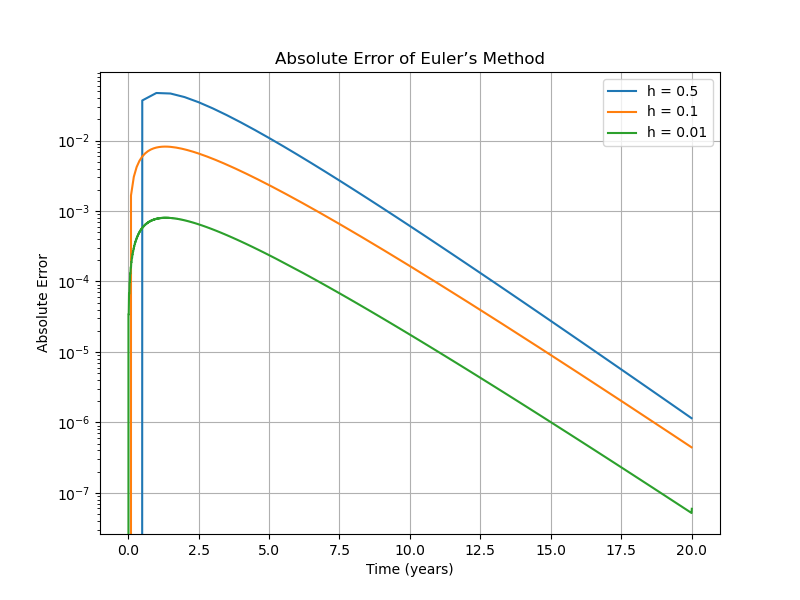
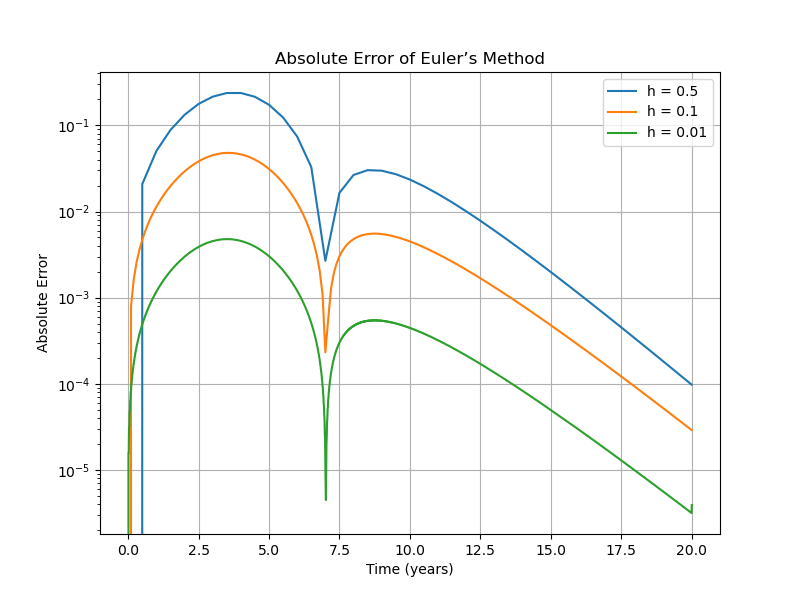
updated task a and c

diff --git a/Code/task_set_a.py b/Code/task_set_a.py
@@ -1,6 +1,7 @@
 import numpy as np
 import matplotlib.pyplot as plt
-from utils import euler_method, exact_solution, plot_solutions
+from utils import euler_method, exact_solution, plot_solutions, harvesting_function, dirfield
+from scipy.optimize import fsolve
 
 def task_1_units():
     """
@@ -36,7 +37,7 @@ def task_3_euler_method_and_plots():
     # Parameters for mountain lion population
     r = 0.65
     L = 5.4
-    x0 = 6  # Initial population (in dozens of mountain lions)
+    x0 = .5  # Initial population (in dozens of mountain lions)
     t_end = 20
     h_values = [0.5, 0.1, 0.01]
 
@@ -86,8 +87,8 @@ def task_5_behavior_of_harvesting_function():
     """
     Task A.5: Explore the behavior of the harvesting function H(x) and plot the curves.
     """
-    def harvesting_function(x, p, q):
-        return (p * x**2) / (q + x**2)
+    #def harvesting_function(x, p, q):
+        #return (p * x**2) / (q + x**2)
 
     x_values = np.linspace(0, 10, 500)
     parameters = [(1, 1), (1, 3), (1, 5), (3, 1), (3, 3), (3, 5), (5, 1), (5, 3), (5, 5)]
@@ -114,7 +115,50 @@ def task_6_equilibrium_solutions_and_euler():
     # - Find equilibrium solutions using numerical solvers (e.g., scipy.optimize.fsolve)
     # - Compute Euler’s method for initial deer populations of 84, 24, 18, and 6
     # - Plot results along with the direction field and equilibrium points
-    pass  # Placeholder
+    rd = 0.65
+    Ld = 8.1
+    p = 1.2
+    q = 1
+    h = 0.1
+    pop = [7, 2, 2.5, 0.5]
+    t_grid = np.arange(0, 30, h)
+    x_sol = np.zeros_like(t_grid)
+    x_grid = np.linspace(0, 8, 500)
+    H = harvesting_function(x_grid, p, q)
+    def fxt(x):
+        y = rd*x*(1-(x/Ld))-harvesting_function(x, p, q)
+        return y
+    guess = [0, 0.7, 5]
+    roots = np.array([])
+    for i in range(len(guess)):
+        root = fsolve(fxt, guess[i])
+        roots = np.append(roots, root)
+    print("roots:", roots)
+
+    fig, ax = plt.subplots()
+    for i in range(len(pop)):
+        x_sol[0] = pop[i]
+    
+        for j in range(len(t_grid)-1):
+            H = harvesting_function(x_sol[j], p, q)
+            x_sol[j+1] = x_sol[j] + h*(fxt(x_sol[j]))
+        
+        ax.plot(t_grid, x_sol, label="%g Dozen Deer" % pop[i])
+        ax.set_title("Deer Population Over Time (Differing Initial Values of Deer)")
+        ax.set_xlabel("Time (yrs)")
+        ax.set_ylabel("Deer Population (dozens)")
+        ax.legend(fontsize="7.5")
+
+    for i in range(len(roots)):
+        ax.axhline(y=roots[i], color='#39FF14', linestyle="dashed")
+
+    x = np.arange(0, 30, 2.5)
+    y = np.arange(0, 7, .5)
+    dirfield(fxt, x, y)
+    plt.savefig("plots/task_a_harvesting_with_dirfield.png")
+
+
+    
 
 def main():
     # Execute each task sequentially
@@ -124,7 +168,7 @@ def main():
     task_4_classify_differential_eq()
     task_5_behavior_of_harvesting_function()
     # Uncomment the following line once Task 6 is implemented
-    # task_6_equilibrium_solutions_and_euler()
+    task_6_equilibrium_solutions_and_euler()
 
 if __name__ == "__main__":
     main()

diff --git a/Code/task_set_c.py b/Code/task_set_c.py
@@ -1,7 +1,7 @@
 import numpy as np
 import matplotlib.pyplot as plt
 from scipy.integrate import solve_ivp
-from utils import plot_vector_field, plot_phase_plane, find_nullclines
+from utils import plot_vector_field, vectorfield, dx1_dt, dx2_dt
 
 def task_1_nullclines_and_equilibrium():
     """
@@ -21,15 +21,10 @@ def task_2a_vector_field():
     Parameters: α = 1.5, β = 1.1, γ = 2.5, δ = 1.4, κ = 0.5
     Region: 0 ≤ x1 ≤ 5, 0 ≤ x2 ≤ 5
     """
-    params = {
-        'alpha': 1.5,
-        'beta': 1.1,
-        'gamma': 2.5,
-        'delta': 1.4,
-        'kappa': 0.5
-    }
-
-    plot_vector_field(params, x_range=(0, 5), y_range=(0, 5))
+    params = (1.5, 1.1, 2.5, 1.4, 0.5)
+    x1 = np.arange(0, 5, 0.2)
+    x2 = np.arange(0, 5, 0.2)
+    vectorfield(dx1_dt, dx2_dt, x1, x2, params)
     print("Task C.2(a) completed: Vector field plotted.")
 
 def task_2b_solve_ode_system():
@@ -38,23 +33,29 @@ def task_2b_solve_ode_system():
     Initial conditions: (x1(0), x2(0)) = (5, 1) and (x1(0), x2(0)) = (1, 5)
     Time interval: t ∈ [0, 20] with a stepsize of h = 0.01
     """
-    def logistic_predator_prey(t, z, alpha, beta, gamma, delta, kappa):
-        x1, x2 = z
-        dx1_dt = -alpha * x1 + beta * x1 * x2
-        dx2_dt = gamma * (1 - kappa * x2) * x2 - delta * x1 * x2
-        return [dx1_dt, dx2_dt]
+    def logistic_predator_prey(t, f, alpha, beta, gamma, delta, kappa):
+        x1, x2 = f
+        return [dx1_dt(x1, x2, alpha, beta, gamma, delta, kappa ), dx2_dt(x1, x2, alpha, beta, gamma, delta, kappa)]
 
     # Initial conditions
-    initial_conditions = [(5, 1), (1, 5)]
+    initial_conditions = [[5, 1], [1, 5]]
+    f0 = [5, 1]
     t_span = (0, 20)
     t_eval = np.linspace(0, 20, 2000)
-
+    params = (1.5, 1.1, 2.5, 1.4, 0.5)
+    print(initial_conditions[1])
     solutions = []
-    for z0 in initial_conditions:
-        sol = solve_ivp(logistic_predator_prey, t_span, z0, t_eval=t_eval, args=(1.5, 1.1, 2.5, 1.4, 0.5))
-        solutions.append(sol)
+    sol = solve_ivp(logistic_predator_prey, t_span, f0, t_eval=t_eval, args=params)
+    t = sol.t
+    x1 = sol.y[0]
+    x2 = sol.y[1]
+    plt.plot(t, x1)
+    plt.plot(t, x2)
+    # for i in initial_conditions:
+    #     sol = solve_ivp(logistic_predator_prey, t_span, f0, t_eval=t_eval, args=params)
+    #     solutions.append(sol)
 
-    return solutions
+    # return solutions
 
 def task_2c_phase_plane_and_trajectories(solutions):
     """
@@ -102,11 +103,11 @@ def task_3_component_curves(solutions):
 
 def main():
     # Execute each task sequentially
-    task_1_nullclines_and_equilibrium()
+    #task_1_nullclines_and_equilibrium()
     task_2a_vector_field()
     solutions = task_2b_solve_ode_system()
-    task_2c_phase_plane_and_trajectories(solutions)
-    task_3_component_curves(solutions)
+    #task_2c_phase_plane_and_trajectories(solutions)
+    #task_3_component_curves(solutions)
 
 if __name__ == "__main__":
     main()
